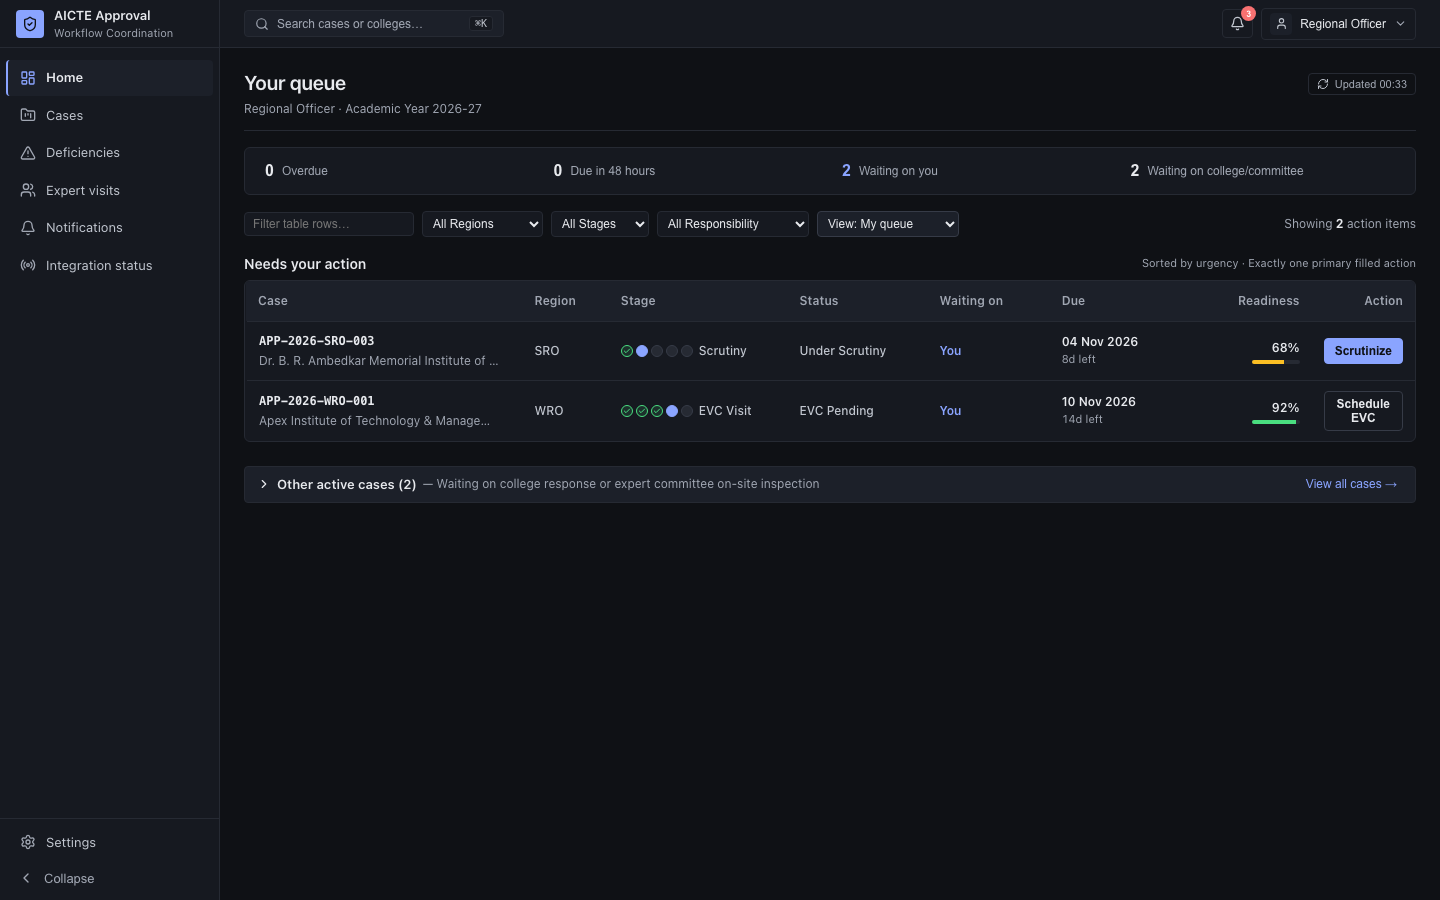
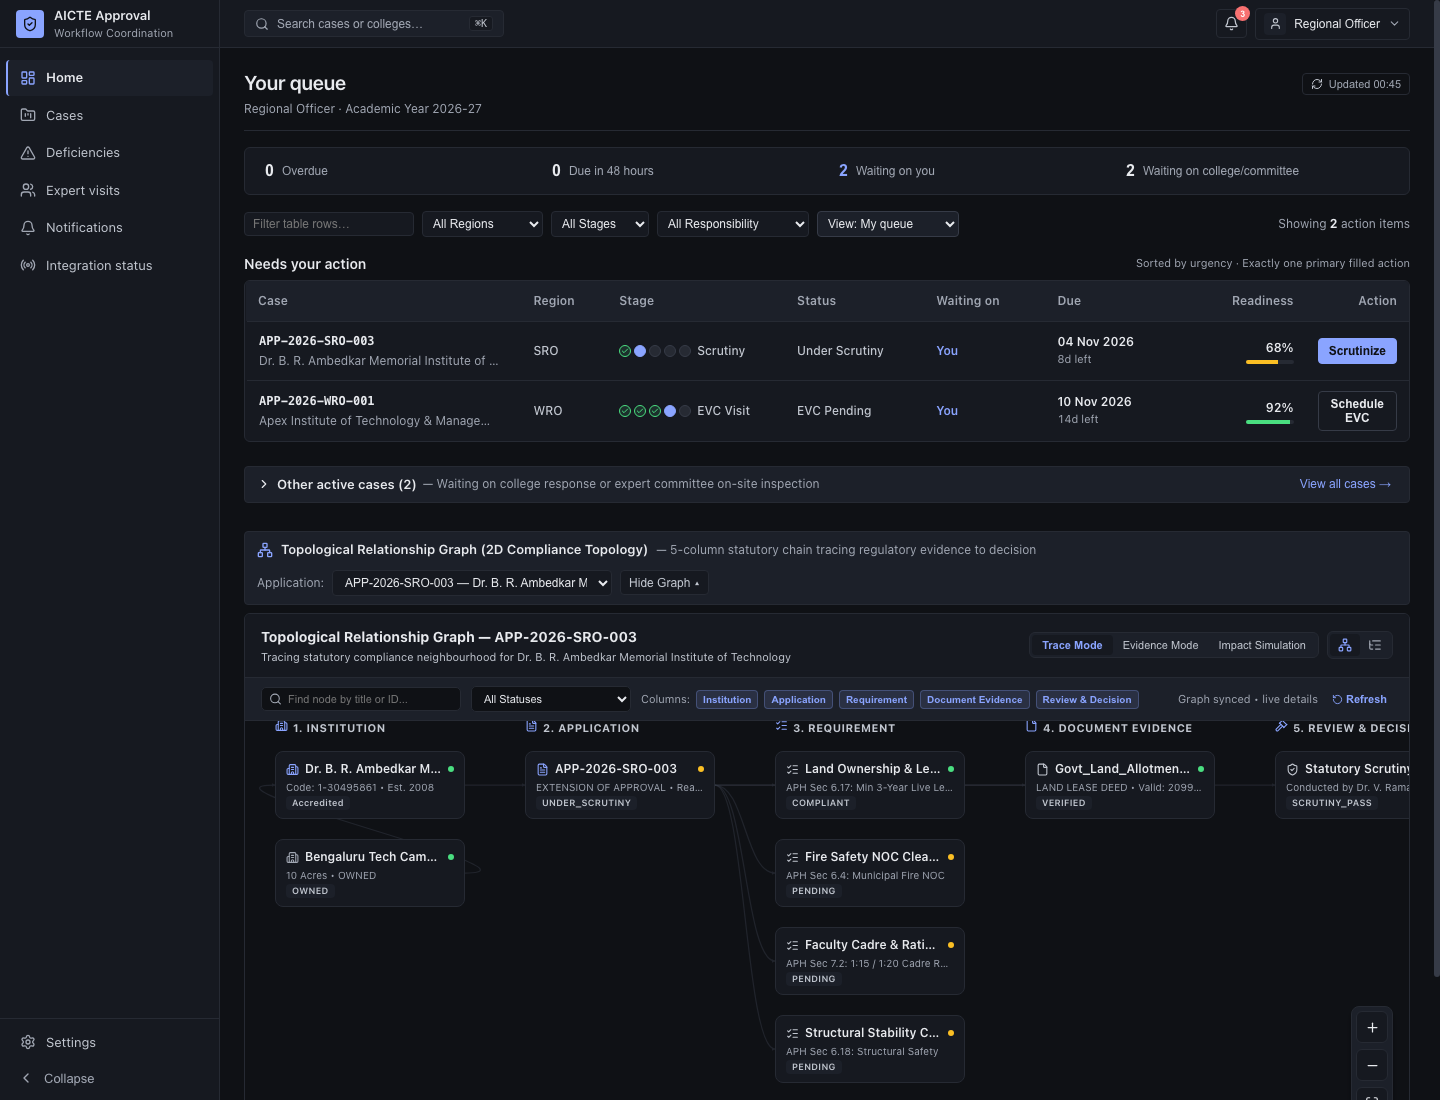
feat(ui): restore 2d relationship topology graph to home dashboard and fix drawer close event bubbling

diff --git a/frontend/src/routes/HomeRoute.tsx b/frontend/src/routes/HomeRoute.tsx
@@ -1,13 +1,15 @@
 import { useEffect, useState, useMemo } from 'react';
 import { useNavigate, useSearchParams } from 'react-router-dom';
-import { RefreshCw, AlertTriangle, Clock, X, ChevronDown, ChevronRight } from 'lucide-react';
-import { getCases } from '../lib/api';
+import { RefreshCw, AlertTriangle, Clock, X, ChevronDown, ChevronRight, Network } from 'lucide-react';
+import { getCases, getCaseById } from '../lib/api';
 import { useRole } from '../context/RoleContext';
 import { computeUnifiedMetrics, deriveCaseState, verifyDataConsistency, type ClockState } from '../lib/caseLogic';
 import { OfficerCaseTable } from '../components/common/OfficerCaseTable';
 import { CaseSidePanel } from '../components/common/CaseSidePanel';
 import { EscalationBanner } from '../components/common/EscalationBanner';
-import type { CaseSummary } from '../types/domain';
+import { RelationshipGraphCanvas } from '../components/graph/RelationshipGraphCanvas';
+import { buildGraphDataFromCase } from '../lib/graphData';
+import type { CaseSummary, CaseDetail } from '../types/domain';
 
 type ActiveSummaryFilter = 'overdue' | 'due_soon' | 'waiting_you' | 'waiting_others' | null;
 
@@ -36,6 +38,12 @@ export function HomeRoute() {
   // Side panel state
   const [selectedCase, setSelectedCase] = useState<CaseSummary | null>(null);
   const [originEl, setOriginEl] = useState<HTMLElement | null>(null);
+
+  // 2D Topology Graph state
+  const [graphCaseId, setGraphCaseId] = useState<string>('');
+  const [graphCaseDetail, setGraphCaseDetail] = useState<CaseDetail | null>(null);
+  const [loadingGraph, setLoadingGraph] = useState(false);
+  const [showGraph, setShowGraph] = useState(true);
 
   useEffect(() => {
     if (caseIdFromUrl && cases.length > 0) {
@@ -185,6 +193,29 @@ export function HomeRoute() {
       })
       .sort(sortByUrgency);
   }, [cases, derivedMap, summaryFilter, searchQuery, regionFilter, stageFilter, waitingFilter]);
+
+  // Sync 2D graph case data
+  useEffect(() => {
+    const targetId = graphCaseId || actionCases[0]?.id || cases[0]?.id;
+    if (!targetId) return;
+
+    if (!graphCaseId) {
+      setGraphCaseId(targetId);
+    }
+
+    setLoadingGraph(true);
+    getCaseById(targetId)
+      .then(d => {
+        setGraphCaseDetail(d);
+        setLoadingGraph(false);
+      })
+      .catch(() => setLoadingGraph(false));
+  }, [graphCaseId, cases, actionCases]);
+
+  const graphData = useMemo(() => {
+    if (!graphCaseDetail) return null;
+    return buildGraphDataFromCase(graphCaseDetail);
+  }, [graphCaseDetail]);
 
   const activeFiltersCount =
     (summaryFilter ? 1 : 0) +
@@ -553,6 +584,7 @@ export function HomeRoute() {
           onSelectCase={(c, el) => {
             setSelectedCase(c);
             setOriginEl(el || null);
+            setGraphCaseId(c.id);
           }}
           selectedCaseId={selectedCase?.id}
           emptyMessage="Nothing needs your action."
@@ -608,11 +640,114 @@ export function HomeRoute() {
             onSelectCase={(c, el) => {
               setSelectedCase(c);
               setOriginEl(el || null);
+              setGraphCaseId(c.id);
             }}
             selectedCaseId={selectedCase?.id}
             emptyMessage="No other active cases waiting on external parties."
             isQuieterSection={true}
           />
+        )}
+      </section>
+
+      {/* 6. 2D Topological Relationship Graph */}
+      <section style={{ display: 'flex', flexDirection: 'column', gap: 8, marginTop: 12 }}>
+        <div
+          style={{
+            display: 'flex',
+            alignItems: 'center',
+            justifyContent: 'space-between',
+            flexWrap: 'wrap',
+            gap: 10,
+            padding: '8px 12px',
+            background: 'var(--bg-subtle)',
+            border: '1px solid var(--border)',
+            borderRadius: 'var(--radius-sm)',
+          }}
+        >
+          <div style={{ display: 'flex', alignItems: 'center', gap: 8 }}>
+            <Network size={16} style={{ color: 'var(--accent)' }} />
+            <div>
+              <span style={{ fontSize: 13, fontWeight: 600, color: 'var(--text-primary)' }}>
+                Topological Relationship Graph (2D Compliance Topology)
+              </span>
+              <span style={{ fontSize: 12, color: 'var(--text-muted)', marginLeft: 8 }}>
+                — 5-column statutory chain tracing regulatory evidence to decision
+              </span>
+            </div>
+          </div>
+
+          <div style={{ display: 'flex', alignItems: 'center', gap: 8 }}>
+            <label htmlFor="graph-case-select" style={{ fontSize: 12, color: 'var(--text-muted)' }}>
+              Application:
+            </label>
+            <select
+              id="graph-case-select"
+              value={graphCaseId}
+              onChange={e => setGraphCaseId(e.target.value)}
+              aria-label="Select application for 2D relationship graph"
+              style={{
+                padding: '4px 8px',
+                borderRadius: 'var(--radius-sm)',
+                border: '1px solid var(--border)',
+                background: 'var(--bg-surface)',
+                color: 'var(--text-primary)',
+                fontSize: 12,
+                fontWeight: 500,
+                cursor: 'pointer',
+                maxWidth: 280,
+              }}
+            >
+              {cases.map(c => (
+                <option key={c.id} value={c.id}>
+                  {c.applicationNumber} — {c.institutionName}
+                </option>
+              ))}
+            </select>
+
+            <button
+              type="button"
+              onClick={() => setShowGraph(!showGraph)}
+              style={{
+                padding: '4px 8px',
+                borderRadius: 'var(--radius-sm)',
+                border: '1px solid var(--border)',
+                background: 'var(--bg-surface)',
+                color: 'var(--text-secondary)',
+                fontSize: 12,
+                cursor: 'pointer',
+              }}
+            >
+              {showGraph ? 'Hide Graph ▴' : 'Show Graph ▾'}
+            </button>
+          </div>
+        </div>
+
+        {showGraph && graphData && (
+          <RelationshipGraphCanvas
+            data={graphData}
+            height={480}
+            title={`Topological Relationship Graph — ${graphCaseDetail?.applicationNumber}`}
+            subtitle={`Tracing statutory compliance neighbourhood for ${graphCaseDetail?.institution.name}`}
+            onRefresh={loadData}
+          />
+        )}
+
+        {showGraph && !graphData && loadingGraph && (
+          <div
+            style={{
+              height: 200,
+              display: 'flex',
+              alignItems: 'center',
+              justifyContent: 'center',
+              background: 'var(--bg-surface)',
+              border: '1px solid var(--border)',
+              borderRadius: 'var(--radius-md)',
+              color: 'var(--text-muted)',
+              fontSize: 12,
+            }}
+          >
+            Loading 2D topological graph…
+          </div>
         )}
       </section>
 

diff --git a/frontend/src/components/common/Drawer.tsx b/frontend/src/components/common/Drawer.tsx
@@ -46,7 +46,10 @@ export function Drawer({ isOpen, onClose, title, subtitle, children, width, size
     >
       {/* Backdrop */}
       <div
-        onClick={onClose}
+        onClick={e => {
+          e.stopPropagation();
+          onClose();
+        }}
         style={{
           position: 'absolute',
           inset: 0,
@@ -56,6 +59,7 @@ export function Drawer({ isOpen, onClose, title, subtitle, children, width, size
       />
       {/* Slide-over panel */}
       <div
+        onClick={e => e.stopPropagation()}
         style={{
           position: 'relative',
           width: '100%',
@@ -90,7 +94,12 @@ export function Drawer({ isOpen, onClose, title, subtitle, children, width, size
             )}
           </div>
           <button
-            onClick={onClose}
+            type="button"
+            onClick={e => {
+              e.stopPropagation();
+              e.preventDefault();
+              onClose();
+            }}
             aria-label="Close drawer"
             style={{
               background: 'transparent',

diff --git a/frontend/src/components/graph/RelationshipGraphCanvas.tsx b/frontend/src/components/graph/RelationshipGraphCanvas.tsx
@@ -221,10 +221,10 @@ export function RelationshipGraphCanvas({
       style={{
         background: 'var(--bg-surface)',
         border: '1px solid var(--border)',
-        borderRadius: 8,
+        borderRadius: 'var(--radius-md)',
         display: 'flex',
         flexDirection: 'column',
-        boxShadow: 'var(--shadow-sm)',
+        boxShadow: 'none',
         overflow: 'hidden',
         position: 'relative',
       }}

diff --git a/frontend/src/lib/caseLogic.test.ts b/frontend/src/lib/caseLogic.test.ts
@@ -72,3 +72,4 @@ describe('Case Logic & Consistency Specification (Officer-Grade)', () => {
     expect(sorted[1].applicationNumber).toBe('APP-2026-WRO-001');
   });
 });
+

diff --git a/frontend/src/components/common/StageStepper.tsx b/frontend/src/components/common/StageStepper.tsx
@@ -67,3 +67,4 @@ export function StageStepper({ status, hasDeficiencyWarning = false }: StageStep
     </div>
   );
 }
+

diff --git a/frontend/src/components/common/EscalationBanner.tsx b/frontend/src/components/common/EscalationBanner.tsx
@@ -63,3 +63,4 @@ export function EscalationBanner({ overdueCases }: EscalationBannerProps) {
     </div>
   );
 }
+

diff --git a/frontend/src/lib/caseLogic.ts b/frontend/src/lib/caseLogic.ts
@@ -283,3 +283,4 @@ export function verifyDataConsistency(
 
   return errors;
 }
+

diff --git a/frontend/src/context/DensityContext.tsx b/frontend/src/context/DensityContext.tsx
@@ -43,3 +43,4 @@ export function useDensity() {
   }
   return context;
 }
+
